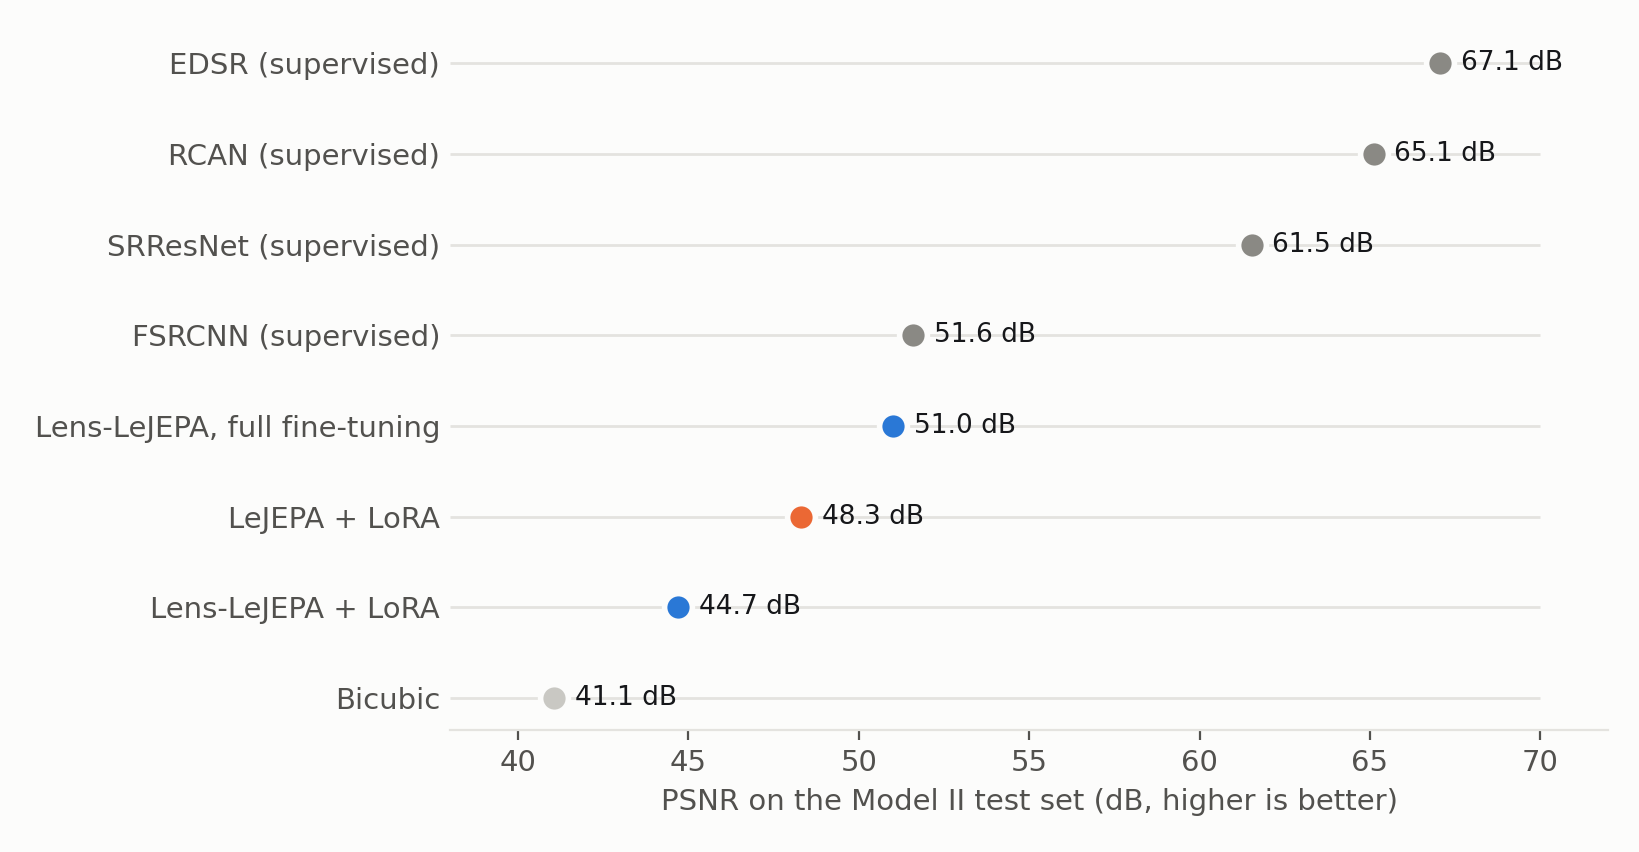
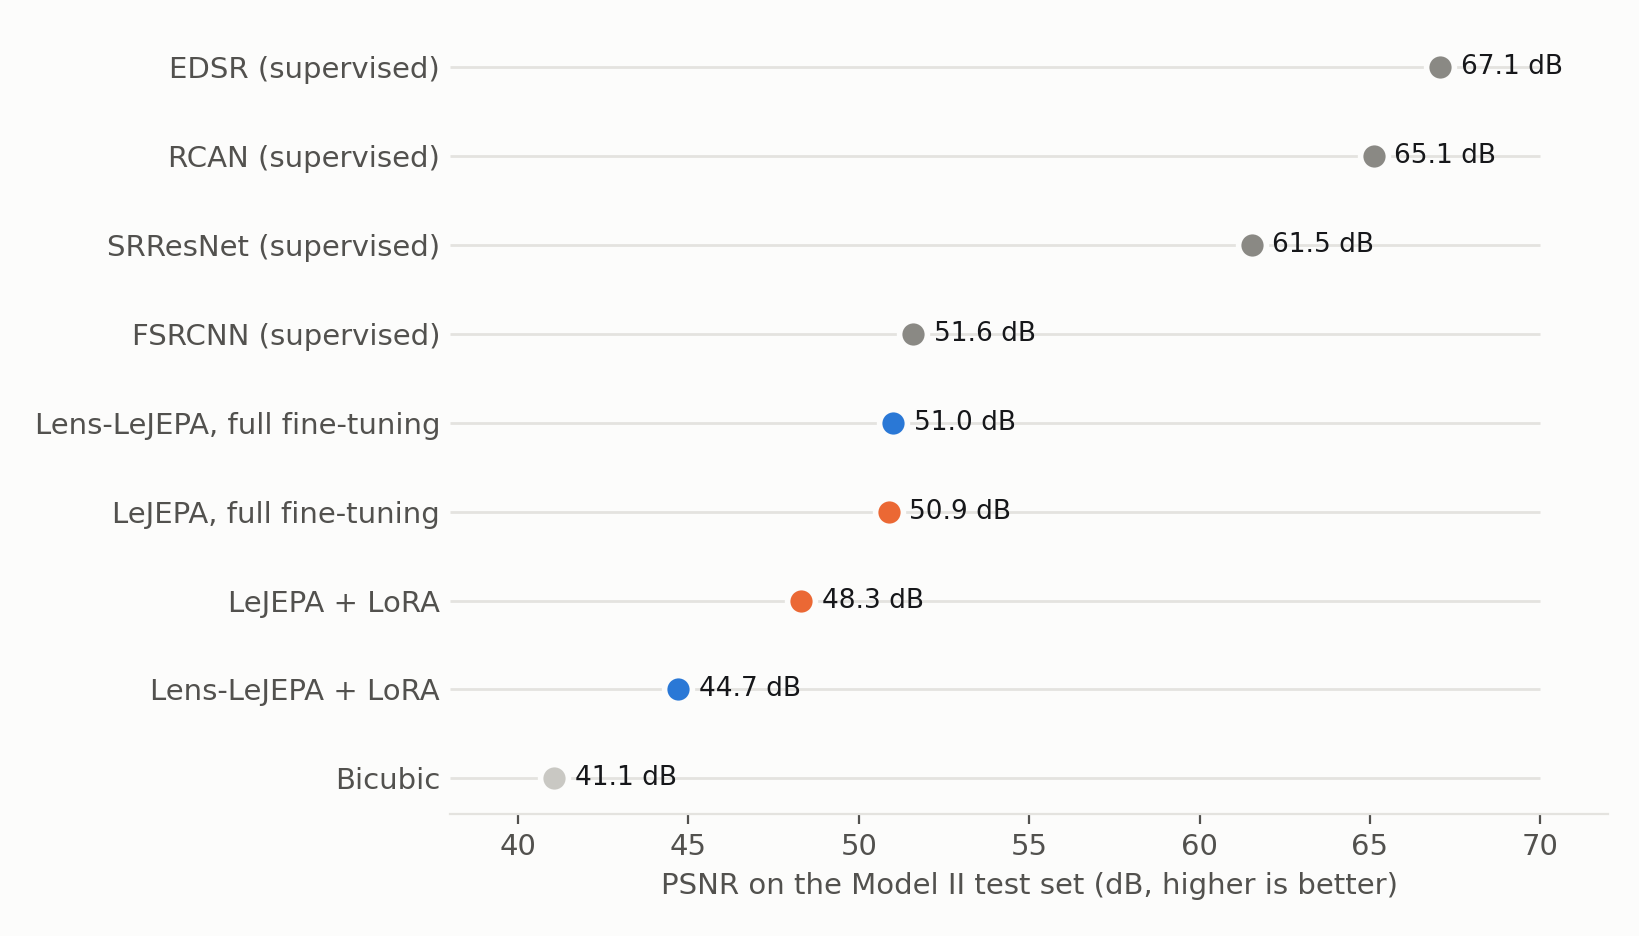
Add LeJEPA full fine-tuning super-resolution result

diff --git a/index.html b/index.html
@@ -321,6 +321,7 @@
     <tr><td>SRResNet (supervised)</td><td>61.53</td><td>60.63</td></tr>
     <tr><td>FSRCNN (supervised, 12k parameters)</td><td>51.60</td><td>46.56</td></tr>
     <tr class="mine"><td>Lens-LeJEPA, full fine-tuning</td><td>51.01</td><td>48.23</td></tr>
+    <tr><td>LeJEPA, full fine-tuning</td><td>50.88</td><td>47.82</td></tr>
     <tr><td>LeJEPA + LoRA</td><td>48.32</td><td>45.38</td></tr>
     <tr class="mine"><td>Lens-LeJEPA + LoRA</td><td>44.70</td><td>42.50</td></tr>
     <tr><td>Bicubic</td><td>41.07</td><td>40.27</td></tr>
@@ -329,7 +330,7 @@
 </div>
 <p class="table-caption">Table 6. Super-resolution quality.</p>
 
-<p>Both pretrained encoders beat bicubic, but every proper super-resolution network trained from scratch on the same data is better, and three of them by more than 10 dB. Even FSRCNN, with only 12 thousand parameters, beats a frozen 21-million-parameter encoder. Fine-tuning the whole encoder helps (51.0 dB) but does not close the gap. Between the two encoders, the lensing terms cost 3.6 dB, the opposite of what they do for classification.</p>
+<p>Both pretrained encoders beat bicubic, but every proper super-resolution network trained from scratch on the same data is better, and three of them by more than 10 dB. Even FSRCNN, with only 12 thousand parameters, beats a frozen 21-million-parameter encoder. Between the two frozen encoders, the lensing terms cost 3.6 dB, the opposite of what they do for classification. Fine-tuning the whole encoder helps both (51.0 dB for Lens-LeJEPA, 50.9 dB for LeJEPA) and removes that cost, but does not close the gap to the supervised networks.</p>
 
 <figure>
   <div class="frame"><img src="assets/img/chart_sr_all.png" alt="PSNR on the Model II test set for every method: EDSR 67.1, RCAN 65.1, SRResNet 61.5, FSRCNN 51.6, Lens-LeJEPA full fine-tuning 51.0, LeJEPA LoRA 48.3, Lens-LeJEPA LoRA 44.7, bicubic 41.1 dB."></div>
